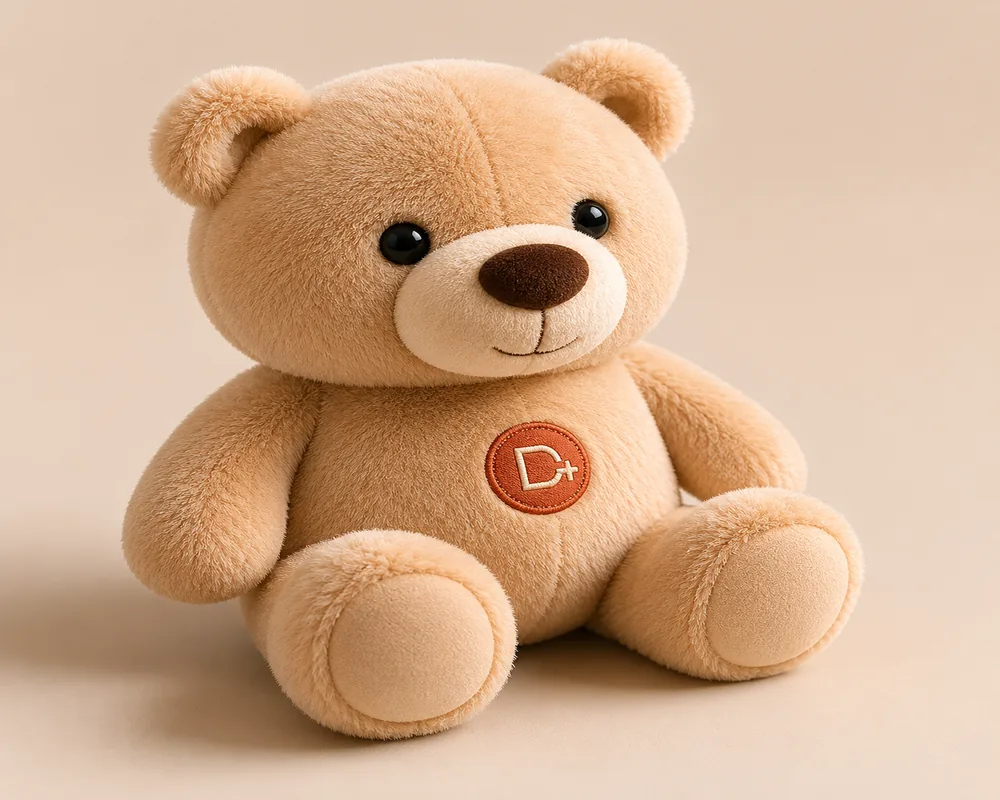
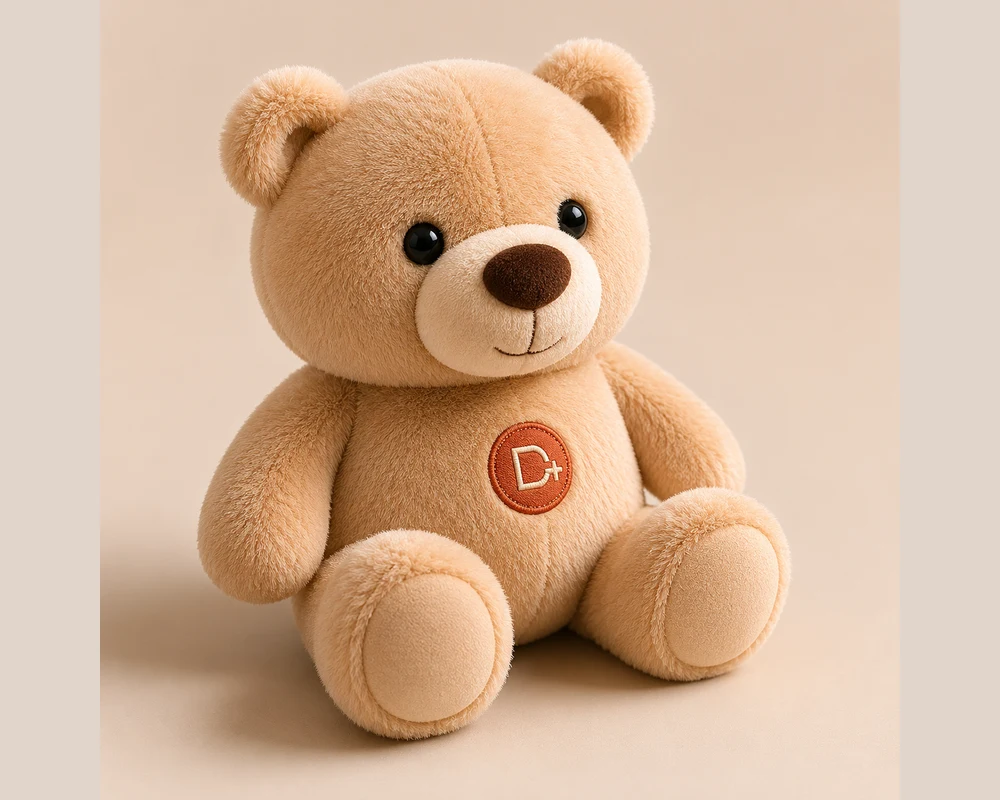
fix: gallery plush proportions + hero stage declutter
Gallery: reconvert 6 plush WebP preserving square aspect ratio (800×800 fit
centered on 1000×800 warm-beige canvas) — eliminates horizontal stretching

Hero: reduce stageItems 8→5 (bear center, cat top-left, robot bottom-right,
plush_rabbit top-right, plush_fox bottom-left) — 5 zones, no overlap

Changed region(s): [[0.0, 0.0312, 0.868, 0.9688], [0.527, 0.1562, 0.558, 0.1875]]

diff --git a/src/pages/LandingPage.jsx b/src/pages/LandingPage.jsx
@@ -2,14 +2,11 @@ import { useState, useEffect, useRef, useCallback } from 'react'
 import { Link } from 'react-router-dom'
 
 const stageItems = [
-  { src: '/images/hero-stage/dinosaur.webp', alt: 'Кастомный антистресс динозавр — мягкий бренд-объект для welcome kit',             size: 178, x: 60, y: 22, z: 1, delay: '0s',   float: '3.8s' },
-  { src: '/images/hero-stage/cat.webp',      alt: 'Антистресс кот-маскот с логотипом клиента — корпоративный мерч',                   size: 165, x: 1,  y: 30, z: 2, delay: '0.6s', float: '4.4s' },
-  { src: '/images/hero-stage/bear.webp',     alt: 'Кастомный антистресс медведь с логотипом — пример бренд-объекта DeStressToys',     size: 252, x: 24, y: 30, z: 3, delay: '0.2s', float: '4.0s' },
-  { src: '/images/hero-stage/robot.webp',    alt: 'Антистресс робот с фирменным логотипом — пример корпоративного бренд-объекта',    size: 200, x: 54, y: 54, z: 2, delay: '0.9s', float: '3.5s' },
-  { src: '/images/hero-stage/drop.webp',     alt: 'Мягкая антистресс капля — кастомная форма бренд-объекта под логотип',             size: 158, x: 3,  y: 61, z: 1, delay: '1.2s', float: '4.8s' },
-  { src: '/images/hero-stage/plush_rabbit.webp', alt: 'Плюшевый кролик-маскот — кастомная мягкая игрушка для корпоративного мерча', size: 170, x: 70, y: 15, z: 2, delay: '0.4s', float: '4.2s' },
-  { src: '/images/hero-stage/plush_fox.webp',    alt: 'Плюшевый кибер-лис — кастомный мягкий маскот для IT-брендинга',               size: 190, x: 10, y: 45, z: 1, delay: '1.0s', float: '3.6s' },
-  { src: '/images/hero-stage/plush_rocket.webp', alt: 'Плюшевая ракета — кастомный мягкий маскот для запусков и конференций',         size: 155, x: 50, y: 60, z: 3, delay: '0.7s', float: '4.6s' },
+  { src: '/images/hero-stage/bear.webp',        alt: 'Кастомный антистресс медведь с логотипом — пример бренд-объекта DeStressToys', size: 250, x: 20, y: 26, z: 3, delay: '0.2s', float: '4.0s' },
+  { src: '/images/hero-stage/cat.webp',         alt: 'Антистресс кот-маскот с логотипом клиента — корпоративный мерч',               size: 155, x: 2,  y: 6,  z: 2, delay: '0.6s', float: '4.4s' },
+  { src: '/images/hero-stage/robot.webp',       alt: 'Антистресс робот с фирменным логотипом — пример корпоративного бренд-объекта', size: 180, x: 58, y: 55, z: 2, delay: '0.9s', float: '3.5s' },
+  { src: '/images/hero-stage/plush_rabbit.webp',alt: 'Плюшевый кролик-маскот — кастомная мягкая игрушка для корпоративного мерча',   size: 160, x: 65, y: 5,  z: 1, delay: '0.4s', float: '4.2s' },
+  { src: '/images/hero-stage/plush_fox.webp',   alt: 'Плюшевый кибер-лис — кастомный мягкий маскот для IT-брендинга',               size: 155, x: 4,  y: 62, z: 1, delay: '1.0s', float: '3.6s' },
 ]
 
 function ProductStage() {
@@ -1059,16 +1056,19 @@ export default function LandingPage() {
             <div className="max-w-[540px]">
               <SectionLabel>Материал</SectionLabel>
               <h2 className="text-[1.75rem] md:text-[2.5rem] xl:text-[3rem] font-bold leading-[1.1] tracking-[-0.02em] text-white">
-                Приятно держать. Сложно отложить.
+                Два материала — одно качество.
               </h2>
               <p className="mt-6 text-lg leading-8 text-[#7c847d]">
-                Мягкий пенополиуретан с бархатистым покрытием. Объект пружинит, возвращает форму и не теряет вид — руки тянутся к нему снова и снова.
+                PU foam и плюш — разные форматы, одинаковый стандарт производства. Оба материала безопасны, прошли сертификацию ЕС и рассчитаны на долгое использование.
               </p>
-              <ul className="mt-8 space-y-3 text-sm leading-6 text-[#7c847d]">
+              <p className="mt-4 text-xs font-semibold uppercase tracking-[0.08em] text-[#ff6a3d]">
+                Антистресс PU foam
+              </p>
+              <ul className="mt-2 space-y-2 text-sm leading-6 text-[#7c847d]">
                 {[
                   'Покрытие: бархатистый полиуретан',
                   'Наполнитель: медленно восстанавливающаяся пена',
-                  'Безопасен: сертификат ЕС, без латекса',
+                  'Сжимается и возвращает форму — тактильный антистресс',
                   'Долговечность: 3+ года активного использования',
                 ].map((detail) => (
                   <li key={detail} className="flex gap-3">
@@ -1077,6 +1077,25 @@ export default function LandingPage() {
                   </li>
                 ))}
               </ul>
+              <p className="mt-4 text-xs font-semibold uppercase tracking-[0.08em] text-[#ff6a3d]">
+                Плюшевые игрушки
+              </p>
+              <ul className="mt-2 space-y-2 text-sm leading-6 text-[#7c847d]">
+                {[
+                  'Материал: мягкий плюшевый ворс',
+                  'Наполнитель: гипоаллергенный холлофайбер',
+                  'Высокая воспринимаемая ценность — premium-подарок',
+                  'Вышивка или принт логотипа на поверхности',
+                ].map((detail) => (
+                  <li key={detail} className="flex gap-3">
+                    <span className="mt-2 h-1.5 w-1.5 rounded-full bg-[#7c847d]" />
+                    <span>{detail}</span>
+                  </li>
+                ))}
+              </ul>
+              <p className="mt-4 text-xs text-[#7c847d]/70">
+                Безопасны: сертификат ЕС, без латекса
+              </p>
             </div>
 
             <div className="grid grid-cols-2 gap-4 h-full min-h-[200px] md:min-h-[400px]">
